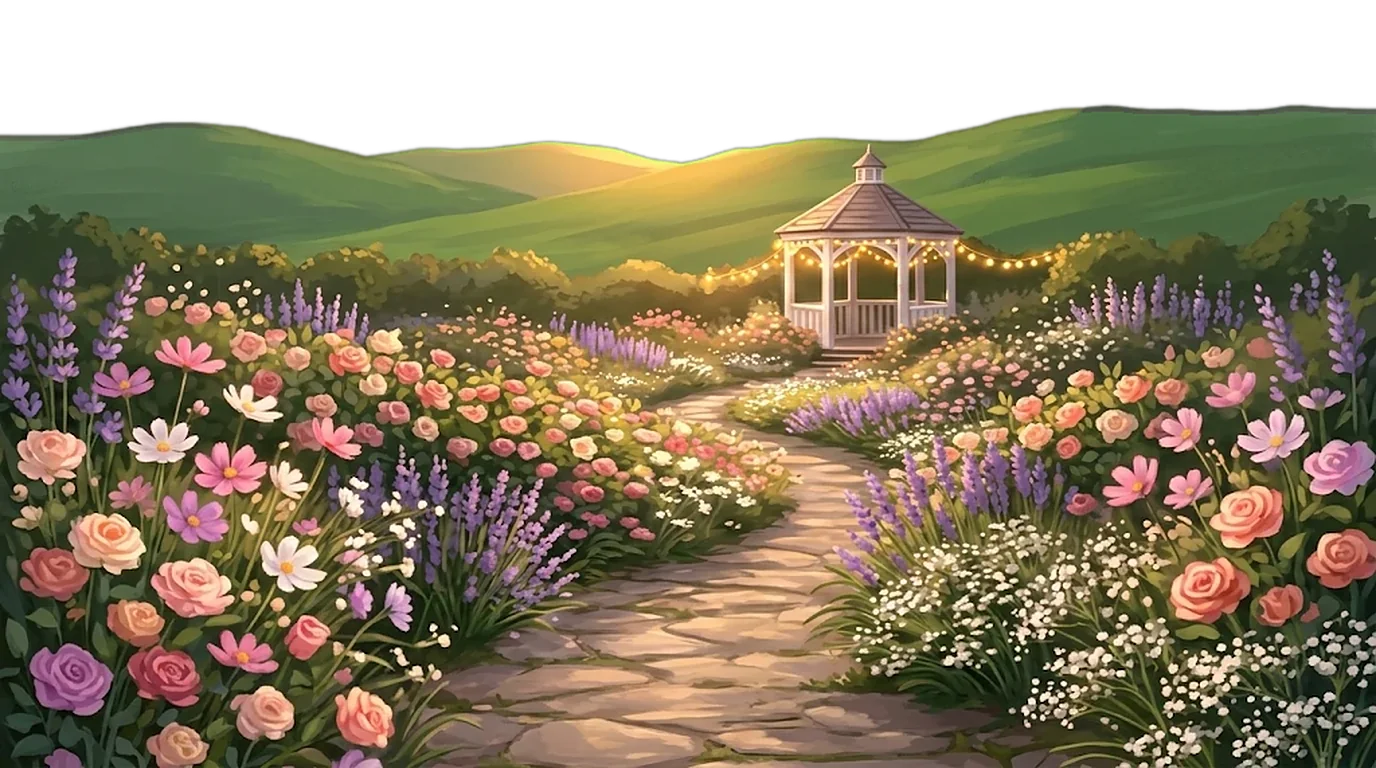
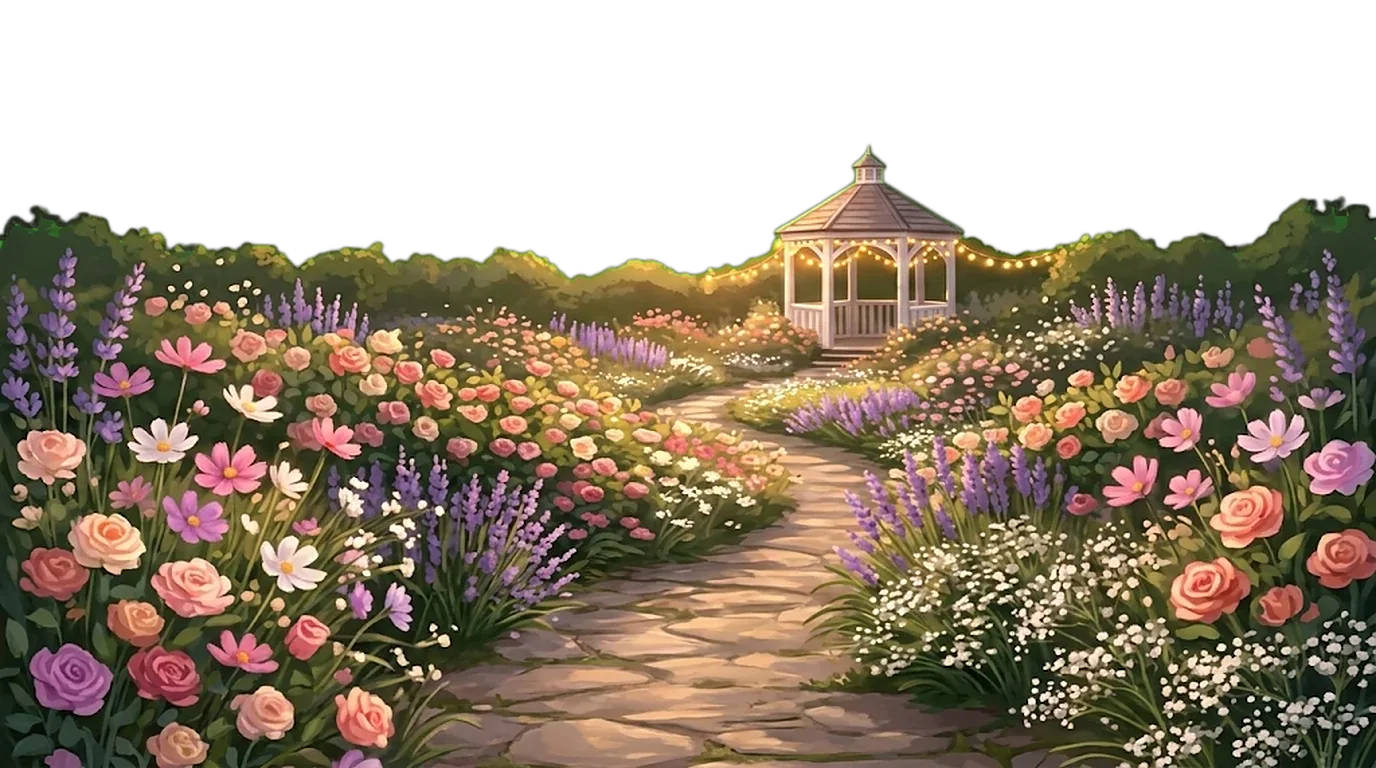
fix(taman-bunga): silhouette backdrop behind the gazebo on wide screens
The inside-the-garden painting had its own green mountains, which hid
the hills.webp silhouette and looked bare next to the tall set. Use the
new mountain-free painting (sky keyed out) as the far layer and the
silhouette alone as the back layer, so wide screens show the same
mountain + treeline behind the gazebo as phones do.

Claude-Session: https://claude.ai/code/session_019p87eqsaJVTv3pDoAT7Qpw

Changed region(s): [[0.0, 0.125, 1.0, 0.375]]

diff --git a/src/all-templates/taman-bunga/engine/scene.js b/src/all-templates/taman-bunga/engine/scene.js
@@ -184,7 +184,7 @@ export function mountScene(root, { toNominal, lanternDepths, wishCount = 0 }) {
   function applyArt(a) {
     if (art === a) return
     art = a
-    ;[a.sky.src, a.garden, a.gate.src, a.front.src, a.inner?.src, a.inner?.front].filter(Boolean).forEach(img)
+    ;[a.sky.src, a.garden, a.gate.src, a.front.src, a.inner?.src].filter(Boolean).forEach(img)
     starsCv = makeStars(a.stars.w, a.stars.h)
     nightGrad = g.createLinearGradient(0, a.skyNight.t, 0, a.skyNight.t + a.skyNight.h)
     nightGrad.addColorStop(0, '#0f0d2c')
@@ -381,16 +381,13 @@ export function mountScene(root, { toNominal, lanternDepths, wishCount = 0 }) {
           g.globalAlpha = 1
         }
       }
-      // back: treeline silhouette + the whole inner painting (its mountains).
-      // Far away, so it barely moves — the sky (moon, stars) stays in view.
+      // back: the mountain + treeline silhouette (the same hills.webp the
+      // tall set uses), far away so it barely moves and the sky stays in view
       const hk = I.hillsDepth
-      far(I.scale * (1 + I.zoom * hk * J.c), itx * hk, ity * hk, () => {
-        draw(hillsImg, I.hills.l, I.hills.t, I.hills.w, I.hills.h)
-        paint(I.src)
-      })
-      // front: garden, path and gazebo (mountains cut away) walk toward us
+      far(I.scale * (1 + I.zoom * hk * J.c), itx * hk, ity * hk, () => draw(hillsImg, I.hills.l, I.hills.t, I.hills.w, I.hills.h))
+      // front: garden, path and gazebo (the painting's own mountains cut away) walk toward us
       far(is, itx, ity, () => {
-        paint(I.front)
+        paint(I.src)
         if (J.lamps > 0) {
           const lp = I.lamps
           glowAt(LAMP, lp.l + lp.w * 0.5, lp.t + lp.h * 0.5, lp.w / 2, lp.h / 2, J.lamps * fl * 0.7, true)

diff --git a/src/all-templates/taman-bunga/config/art.js b/src/all-templates/taman-bunga/config/art.js
@@ -69,9 +69,10 @@ export const ART = {
     // opening cut out) and this "inside the garden" painting the FAR layer
     // behind it; the walk, lanterns and string-light glow continue on it.
     inner: {
-      src: SCENE.gardenInnerWide, // back: drawn whole, for its mountains
-      front: SCENE.gardenInnerWideFront, // front: garden + gazebo, mountains cut away
-      hillsDepth: 0.15, // the mountains move this fraction of the garden's walk
+      // garden + gazebo; the painting's own green mountains are cut away so the
+      // hills.webp silhouette is the backdrop, matching the tall set
+      src: SCENE.gardenInnerWide,
+      hillsDepth: 0.15, // the silhouette moves this fraction of the garden's walk
       vp: { x: 845, y: 352 }, // the gazebo steps
       // where vp sits on the arch painting, and at what scale, so the two
       // gazebos coincide before the arch is passed
@@ -88,8 +89,8 @@ export const ART = {
       ],
       lantern: { K: 120, h: 2.4 },
       lamps: { l: 690, t: 230, w: 380, h: 90 }, // the gazebo's string lights
-      // hills.webp, raised so its treeline peeks over the painted mountains
-      hills: { l: -80, t: 48, w: 1540, h: 752 },
+      // hills.webp behind the gazebo: mountain ridge high, treeline below it
+      hills: { l: -80, t: 10, w: 1540, h: 752 },
     },
   },
 }

diff --git a/src/all-templates/taman-bunga/config/assets.js b/src/all-templates/taman-bunga/config/assets.js
@@ -24,8 +24,7 @@ export const SCENE = {
   garden: `${BASE}/garden.webp`,
   gardenWide: `${BASE}/garden-wide.webp`,
   gardenWideNear: `${BASE}/garden-wide-near.webp`, // garden-wide with the arch opening cut out
-  gardenInnerWide: `${BASE}/garden-inner-wide.webp`,
-  gardenInnerWideFront: `${BASE}/garden-inner-wide-front.webp`, // the same with its mountains cut away
+  gardenInnerWide: `${BASE}/garden-inner-wide.webp`, // inside the arch: garden + gazebo, no mountains
   gate: `${BASE}/gate.webp`,
   gateWide: `${BASE}/gate-wide.webp`,
   front: `${BASE}/flowers-front.webp`,

diff --git a/CLAUDE.md b/CLAUDE.md
@@ -322,15 +322,15 @@ supabase/                                          ← schema.sql (base) + migra
    without them the landing/onboarding (DB-driven once any `templates` row exists) and checkout don't
    offer the template.
    (f) Wide screens are a 3-depth parallax, not one painting: NEAR = `garden-wide-near.webp` (the
-   rose-arch painting with its opening cut out), FAR = `garden-inner-wide-front.webp` (garden + gazebo,
-   mountains cut away) and BACK = `hills.webp` treeline + the whole `garden-inner-wide.webp` (its
-   mountains). At first the far layers are glued under the opening so the two gazebos coincide
-   (`ART.wide.inner.start`); passing the arch (T .15–.27) the near layer grows 4.5× and slides out
-   while the far ones catch up to full size, so there is no visible image swap. Then the garden
-   walks toward us and the mountains barely move (`hillsDepth`), keeping the night sky (moon,
-   stars) in view. All layout numbers are hand-measured in `config/art.js`; re-measure if a
-   painting changes. The inner paintings are daylight-coloured, so a pre-multiplied lavender copy
-   (`nightOf`) fades in at night. The tall set needs none of this — its zoom clears the arch.
+   rose-arch painting with its opening cut out), FAR = `garden-inner-wide.webp` (garden + gazebo, sky
+   keyed out, deliberately NO painted mountains) and BACK = the `hills.webp` mountain/treeline
+   silhouette, the same backdrop the tall set shows behind the gazebo. At first the far layer is glued
+   under the opening so the two gazebos coincide (`ART.wide.inner.start`); passing the arch
+   (T .15–.27) the near layer grows 4.5× and slides out while the far one catches up to full size, so
+   there is no visible image swap. Then the garden walks toward us and the silhouette barely moves
+   (`hillsDepth`), keeping the night sky (moon, stars) in view. All layout numbers are hand-measured
+   in `config/art.js`; re-measure if a painting changes. The inner painting is daylight-coloured, so
+   a pre-multiplied lavender copy (`nightOf`) fades in at night. The tall set needs none of this.
 
 ---
 
